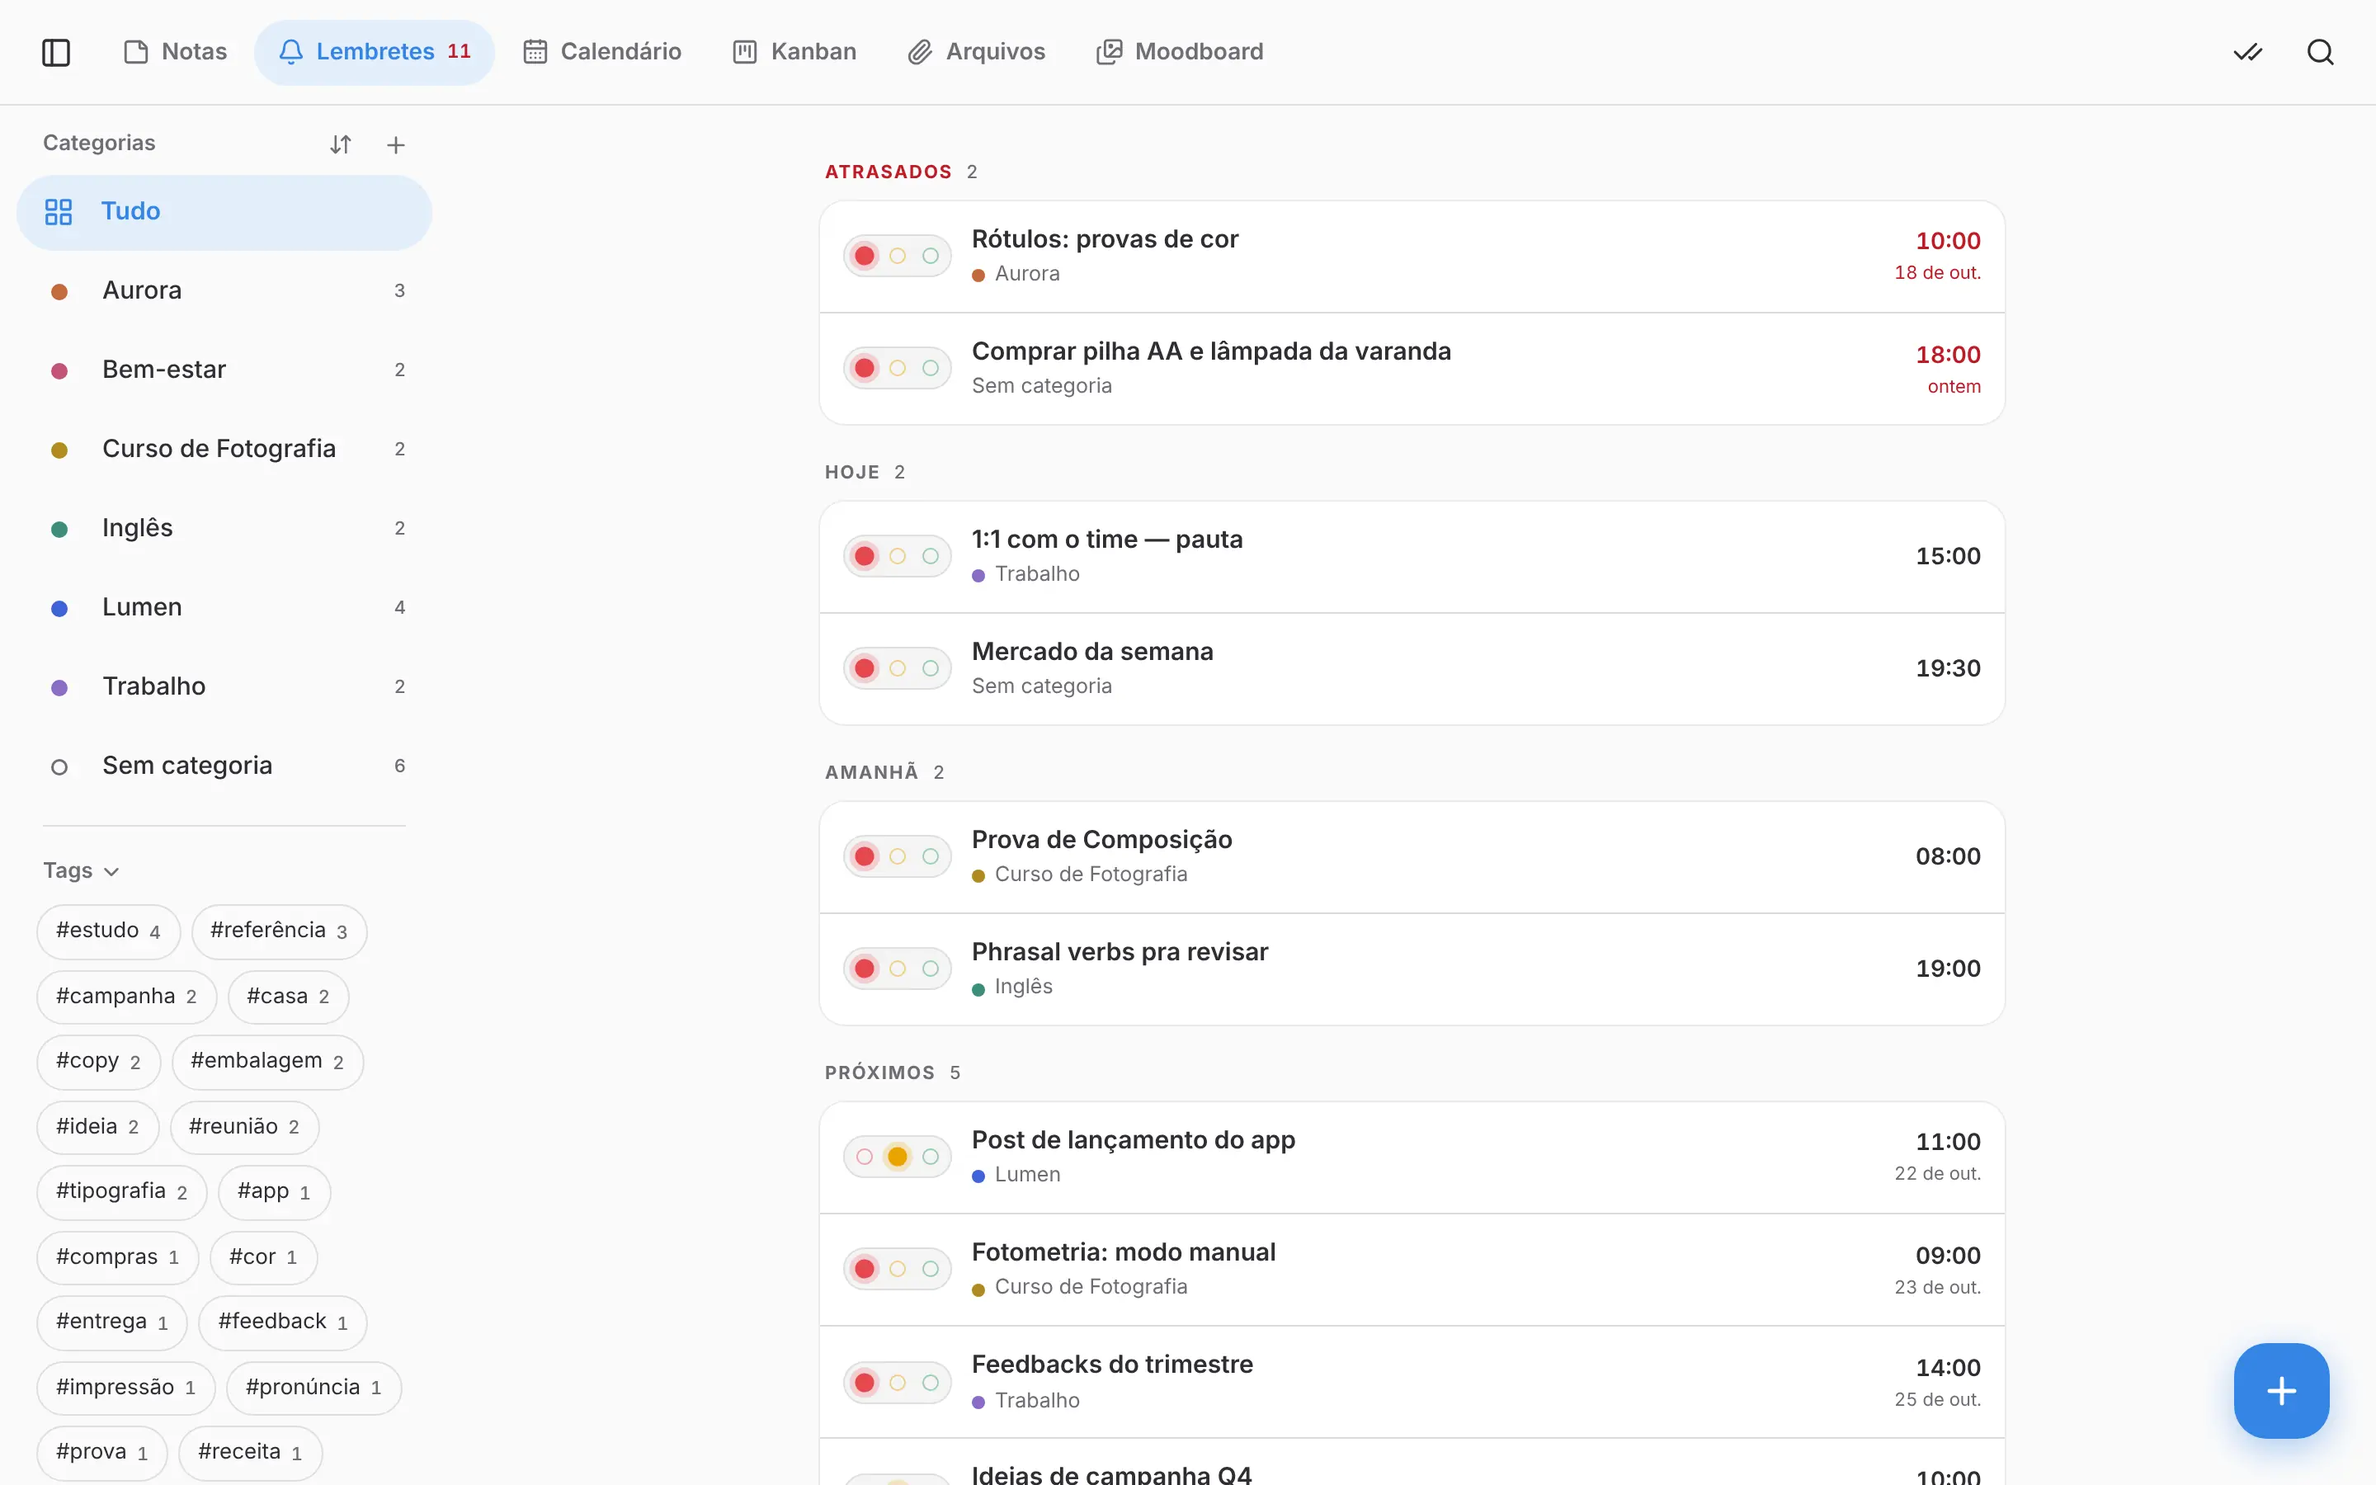
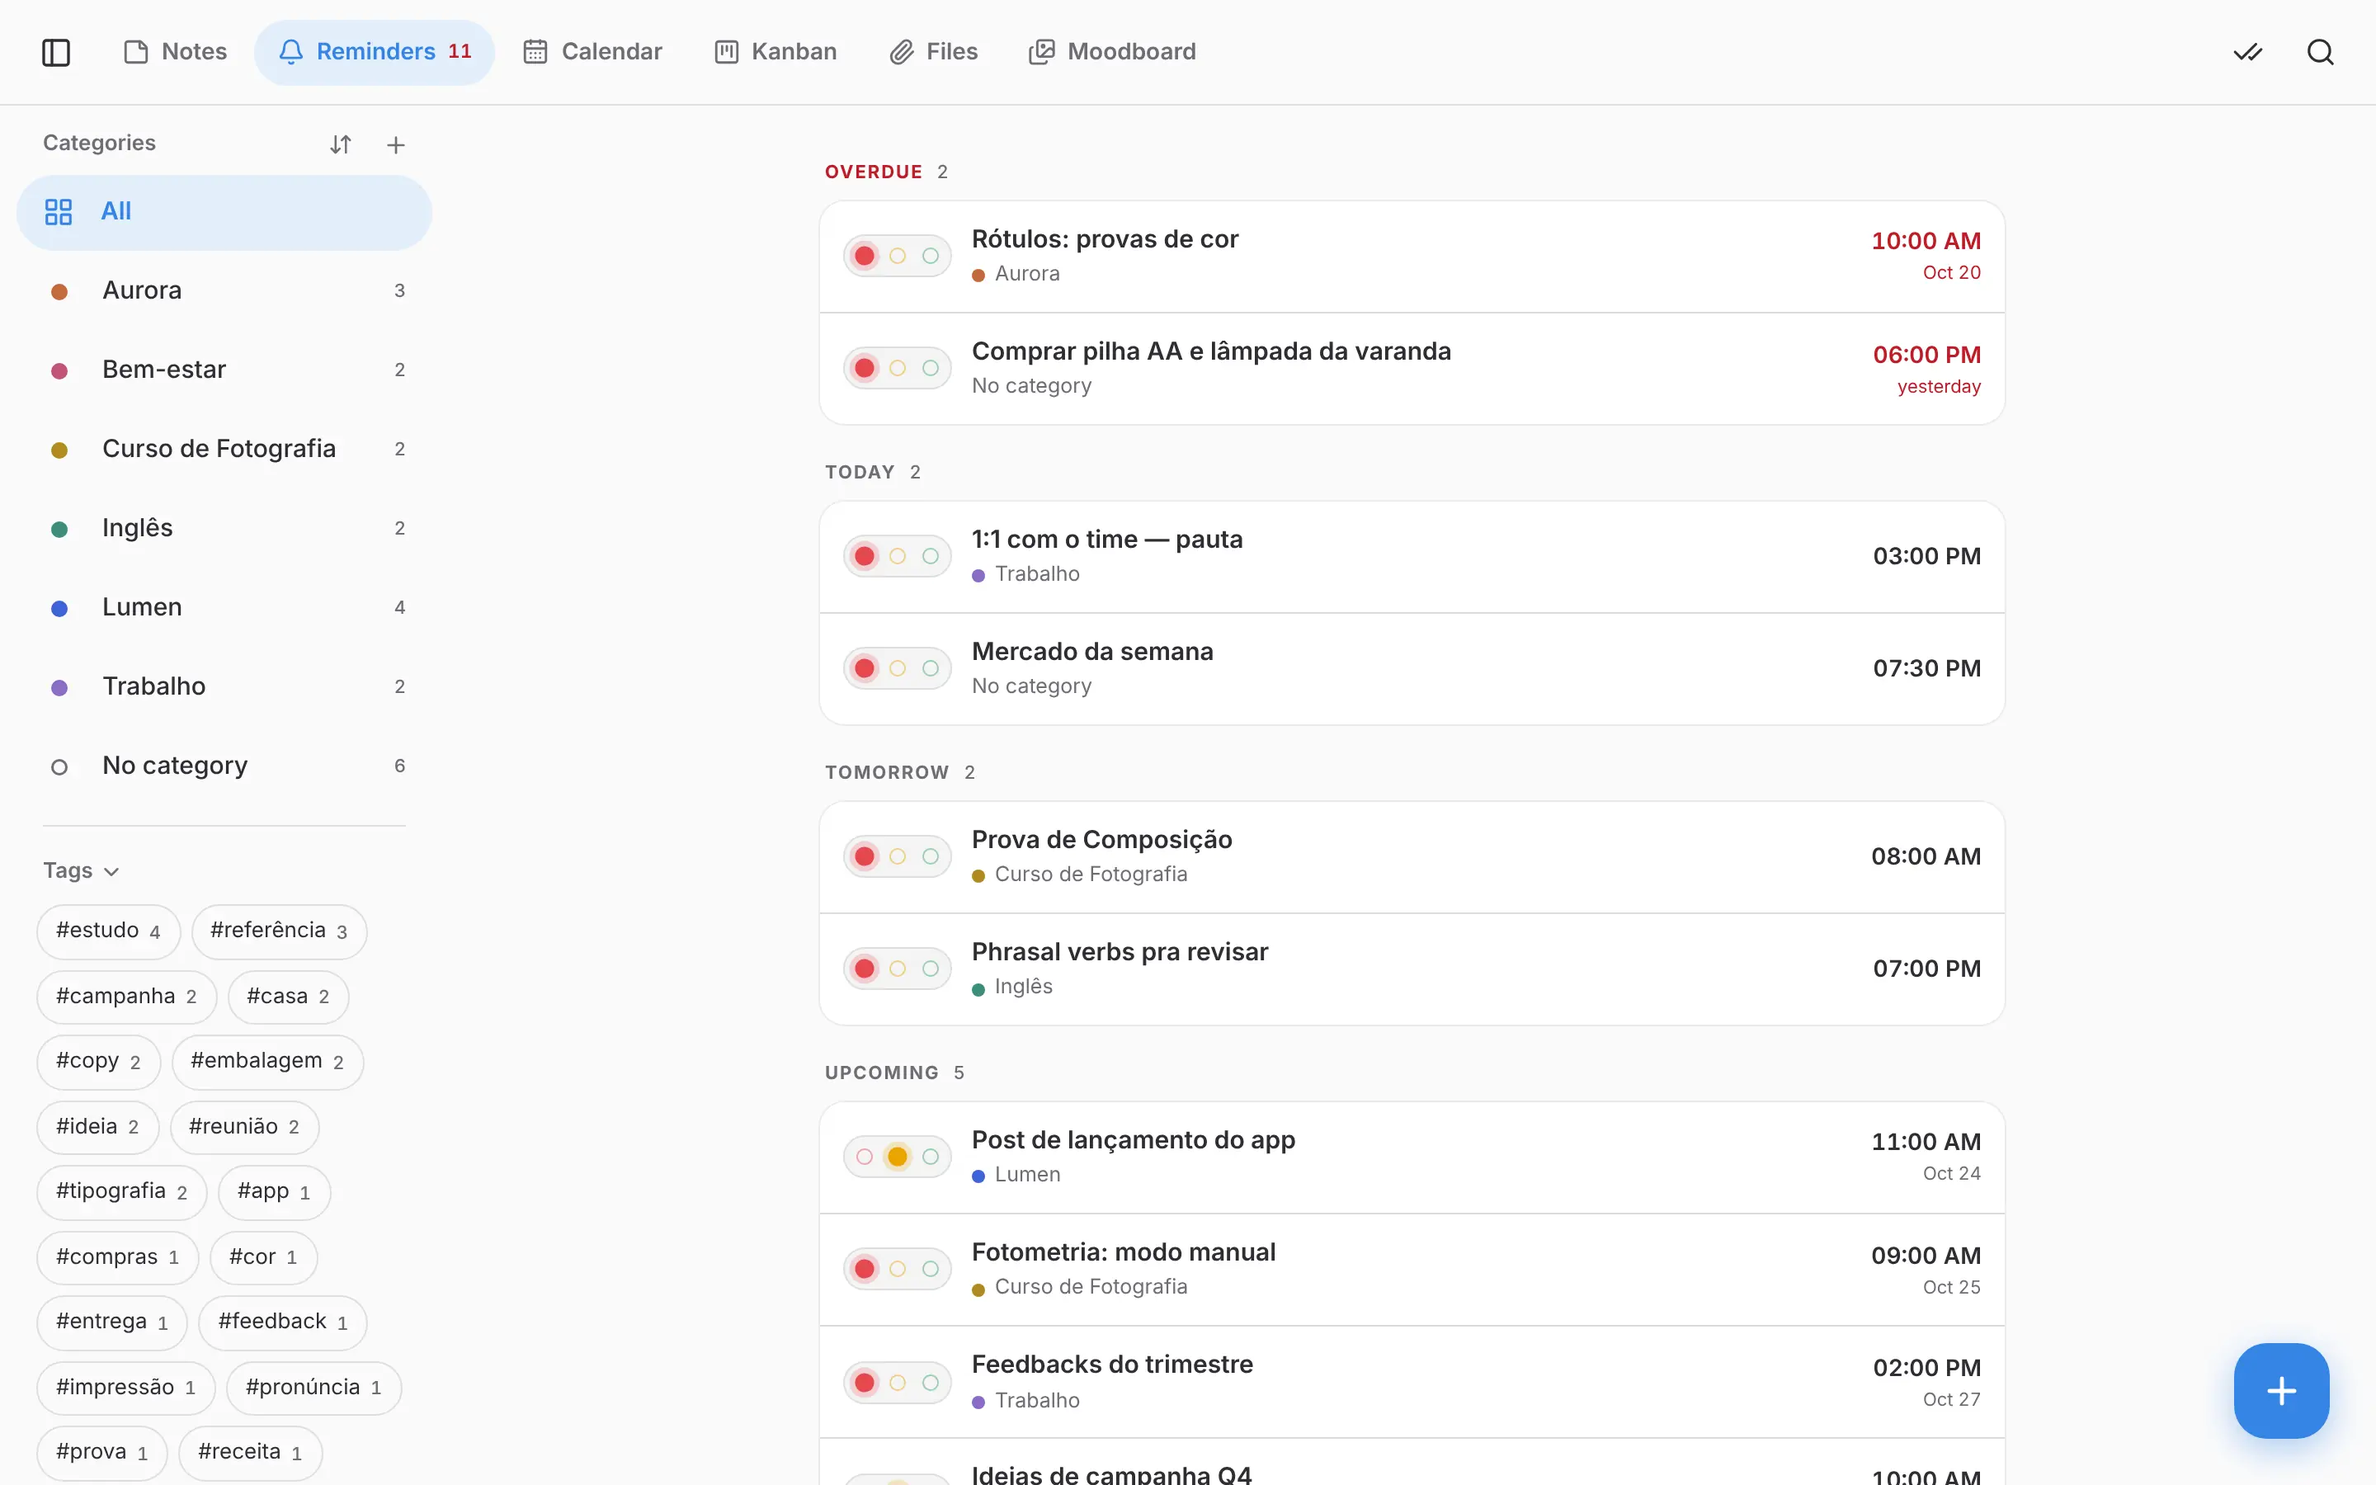
Prints do site em inglês e português
O scripts/site-shots.mjs tira cada print nas duas línguas (como no Nodo):
inglês em site/img e português em site/img/pt, com o idioma do app em
atrio.locale e os botões procurados pelo nome nas duas línguas. A página
em português e o README.pt-BR apontam para site/img/pt.

Claude-Session: https://claude.ai/code/session_01AzZnq8hfvPnh2DukMvcEkA

diff --git a/site/pt/index.html b/site/pt/index.html
@@ -35,7 +35,7 @@
 <meta property="og:url" content="https://ideario.pages.dev/pt/">
 <meta property="og:title" content="Ideario — app de notas local-first e alternativa ao Google Keep">
 <meta property="og:description" content="App de notas grátis e privado para Windows, macOS, Linux e Android: notas em Markdown, lembretes, calendário e kanban sem internet, com sync opcional pelo Google Drive e MCP para o Claude.">
-<meta property="og:image" content="https://ideario.pages.dev/img/notas.webp">
+<meta property="og:image" content="https://ideario.pages.dev/img/pt/notas.webp">
 <meta property="og:image:type" content="image/webp">
 <meta property="og:image:width" content="2880">
 <meta property="og:image:height" content="1800">
@@ -43,7 +43,7 @@
 <meta name="twitter:card" content="summary_large_image">
 <meta name="twitter:title" content="Ideario — app de notas local-first e alternativa ao Google Keep">
 <meta name="twitter:description" content="App de notas grátis e privado para Windows, macOS, Linux e Android: notas em Markdown, lembretes, calendário e kanban sem internet, com sync opcional pelo Google Drive e MCP para o Claude.">
-<meta name="twitter:image" content="https://ideario.pages.dev/img/notas.webp">
+<meta name="twitter:image" content="https://ideario.pages.dev/img/pt/notas.webp">
 <meta name="twitter:image:alt" content="Ideario, app de notas local-first: cards coloridos com checklists, fotos e lembretes">
 <link rel="icon" href="/favicon.svg" type="image/svg+xml">
 <link rel="stylesheet" href="/style.css">
@@ -65,12 +65,12 @@
   },
   "isAccessibleForFree": true,
   "downloadUrl": "https://github.com/wylho/ideario/releases/latest",
-  "image": "https://ideario.pages.dev/img/notas.webp",
+  "image": "https://ideario.pages.dev/img/pt/notas.webp",
   "screenshot": [
-    "https://ideario.pages.dev/img/notas.webp",
-    "https://ideario.pages.dev/img/nota.webp",
-    "https://ideario.pages.dev/img/calendario.webp",
-    "https://ideario.pages.dev/img/kanban.webp"
+    "https://ideario.pages.dev/img/pt/notas.webp",
+    "https://ideario.pages.dev/img/pt/nota.webp",
+    "https://ideario.pages.dev/img/pt/calendario.webp",
+    "https://ideario.pages.dev/img/pt/kanban.webp"
   ],
   "featureList": [
     "Notas em Markdown com checklists, fotos, PDFs, áudio e vídeo",
@@ -130,8 +130,8 @@
 
 <div class="showcase">
   <picture>
-    <source srcset="/img/notas-escuro.webp" media="(prefers-color-scheme: dark)">
-    <img src="/img/notas.webp" width="2880" height="1800" alt="Tela principal do Ideario: notas coloridas em cards, com checklists, fotos, lembretes e categorias na lateral">
+    <source srcset="/img/pt/notas-escuro.webp" media="(prefers-color-scheme: dark)">
+    <img src="/img/pt/notas.webp" width="2880" height="1800" alt="Tela principal do Ideario: notas coloridas em cards, com checklists, fotos, lembretes e categorias na lateral">
   </picture>
 </div>
 
@@ -206,32 +206,32 @@
       <li>Um emoji grande de capa para achar a nota de longe</li>
     </ul>
         </div>
-        <div class="media"><img src="/img/nota.webp" width="2880" height="1800" loading="lazy" alt="Nota aberta com três fotos lado a lado, um checklist e um PDF anexado"></div>
+        <div class="media"><img src="/img/pt/nota.webp" width="2880" height="1800" loading="lazy" alt="Nota aberta com três fotos lado a lado, um checklist e um PDF anexado"></div>
       </div>
       <div class="card">
         <h3>Lembretes que avisam de verdade</h3>
         <p>Notificação do sistema na hora certa, com Adiar e Concluir. Lembretes que se repetem todo dia, semana, mês ou
     ano. Se o computador estava desligado, o Ideario avisa o que passou assim que abrir. Cada lembrete tem um status
     em três cores: vermelho (a fazer), amarelo (em andamento) e verde (concluído).</p>
-        <div class="media"><img src="/img/lembretes.webp" width="2880" height="1800" loading="lazy" alt="Lista de lembretes agrupada em atrasados, hoje, amanhã e próximos"></div>
+        <div class="media"><img src="/img/pt/lembretes.webp" width="2880" height="1800" loading="lazy" alt="Lista de lembretes agrupada em atrasados, hoje, amanhã e próximos"></div>
       </div>
       <div class="card">
         <h3>Calendário</h3>
         <p>Os mesmos lembretes, no dia de cada um, por mês ou por semana. Arraste para outro dia e a data muda (a hora
     fica); toque no + de um dia para criar um lembrete nele. Os que se repetem já mostram as próximas vezes.</p>
-        <div class="media"><img src="/img/calendario.webp" width="2880" height="1800" loading="lazy" alt="Calendário do mês com os lembretes em cada dia, coloridos pelo status"></div>
+        <div class="media"><img src="/img/pt/calendario.webp" width="2880" height="1800" loading="lazy" alt="Calendário do mês com os lembretes em cada dia, coloridos pelo status"></div>
       </div>
       <div class="card">
         <h3>Kanban</h3>
         <p>A fazer, em andamento e concluído, em três colunas. Arraste o card de uma coluna para outra ou toque no
     seletor de cores dele. Tudo isso também pelo Claude.</p>
-        <div class="media"><img src="/img/kanban.webp" width="2880" height="1800" loading="lazy" alt="Kanban com os lembretes em três colunas: a fazer, em andamento e concluído"></div>
+        <div class="media"><img src="/img/pt/kanban.webp" width="2880" height="1800" loading="lazy" alt="Kanban com os lembretes em três colunas: a fazer, em andamento e concluído"></div>
       </div>
       <div class="card">
         <h3>Moodboard das suas fotos</h3>
         <p>Todas as imagens de todas as notas num mural só, com a paleta de cores de cada uma. Filtre por tom e encontre
     aquela referência sem lembrar em que nota ela estava.</p>
-        <div class="media"><img src="/img/moodboard.webp" width="2880" height="1800" loading="lazy" alt="Moodboard com as imagens das notas em mosaico e a paleta de cores de cada uma"></div>
+        <div class="media"><img src="/img/pt/moodboard.webp" width="2880" height="1800" loading="lazy" alt="Moodboard com as imagens das notas em mosaico e a paleta de cores de cada uma"></div>
       </div>
       <div class="card wide">
         <div>
@@ -239,7 +239,7 @@
           <p>Um clique e a nota abre em página inteira, com coluna de leitura. Exporte em Markdown, HTML ou PDF, com as
     fotos e anexos juntos.</p>
         </div>
-        <div class="media"><img src="/img/documento.webp" width="2880" height="1800" loading="lazy" alt="Nota aberta no modo documento, em página inteira"></div>
+        <div class="media"><img src="/img/pt/documento.webp" width="2880" height="1800" loading="lazy" alt="Nota aberta no modo documento, em página inteira"></div>
       </div>
     </div>
   </div>
@@ -261,7 +261,7 @@
     computador, sem servidor nosso no meio, e as categorias protegidas por PIN ficam de fora. Cada nota tem um ID
     curto (#a1b2c3d4): copie e diga “na nota #a1b2c3d4, monta uma tabela com os gastos”.</p>
         </div>
-        <div class="media"><img src="/img/claude.webp" width="2880" height="1800" loading="lazy" alt="Configurações do Ideario com a sincronização do Google Drive e o botão para ligar no Claude Desktop"></div>
+        <div class="media"><img src="/img/pt/claude.webp" width="2880" height="1800" loading="lazy" alt="Configurações do Ideario com a sincronização do Google Drive e o botão para ligar no Claude Desktop"></div>
       </div>
     </div>
   </div>
@@ -278,7 +278,7 @@
     Janela estreita, o layout se ajusta, com as visões numa barra embaixo. Tema claro, escuro ou o do sistema, com as
     cores de destaque do seu Windows, macOS ou Linux.</p>
         </div>
-        <div class="media phone"><img src="/img/janela-estreita.webp" width="1170" height="2532" loading="lazy" alt="O Ideario numa janela estreita, com as notas em duas colunas e a barra de visões embaixo"></div>
+        <div class="media phone"><img src="/img/pt/janela-estreita.webp" width="1170" height="2532" loading="lazy" alt="O Ideario numa janela estreita, com as notas em duas colunas e a barra de visões embaixo"></div>
       </div>
     </div>
     <div class="section-head" style="margin-top: 120px">

diff --git a/README.pt-BR.md b/README.pt-BR.md
@@ -25,8 +25,8 @@ pelo seu próprio Google Drive.</p>
 </p>
 
 <picture>
-  <source srcset="site/img/notas-escuro.webp" media="(prefers-color-scheme: dark)">
-  <img src="site/img/notas.webp" alt="Tela principal do Ideario: notas coloridas em cards, com checklists, fotos, lembretes e categorias na lateral">
+  <source srcset="site/img/pt/notas-escuro.webp" media="(prefers-color-scheme: dark)">
+  <img src="site/img/pt/notas.webp" alt="Tela principal do Ideario: notas coloridas em cards, com checklists, fotos, lembretes e categorias na lateral">
 </picture>
 
 ## Uma nota, seis jeitos de ver
@@ -79,7 +79,7 @@ arrasta para onde quiser.
 - Cole um link e ele vira um cartão com título e imagem
 - Um emoji grande de capa para achar a nota de longe
 
-<img src="site/img/nota.webp" alt="Nota aberta com três fotos lado a lado, um checklist e um PDF anexado">
+<img src="site/img/pt/nota.webp" alt="Nota aberta com três fotos lado a lado, um checklist e um PDF anexado">
 
 ## Lembretes que avisam de verdade
 
@@ -87,35 +87,35 @@ Notificação do sistema na hora certa, com Adiar e Concluir. Lembretes que se r
 Se o computador estava desligado, o Ideario avisa o que passou assim que abrir. Cada lembrete tem um status em três
 cores: vermelho (a fazer), amarelo (em andamento) e verde (concluído).
 
-<img src="site/img/lembretes.webp" alt="Lista de lembretes agrupada em atrasados, hoje, amanhã e próximos">
+<img src="site/img/pt/lembretes.webp" alt="Lista de lembretes agrupada em atrasados, hoje, amanhã e próximos">
 
 ## Calendário
 
 Os mesmos lembretes, no dia de cada um, por mês ou por semana. Arraste para outro dia e a data muda (a hora fica);
 toque no + de um dia para criar um lembrete nele. Os que se repetem já mostram as próximas vezes.
 
-<img src="site/img/calendario.webp" alt="Calendário do mês com os lembretes em cada dia, coloridos pelo status">
+<img src="site/img/pt/calendario.webp" alt="Calendário do mês com os lembretes em cada dia, coloridos pelo status">
 
 ## Kanban
 
 A fazer, em andamento e concluído, em três colunas. Arraste o card de uma coluna para outra ou toque no seletor de
 cores dele. Tudo isso também pelo Claude.
 
-<img src="site/img/kanban.webp" alt="Kanban com os lembretes em três colunas: a fazer, em andamento e concluído">
+<img src="site/img/pt/kanban.webp" alt="Kanban com os lembretes em três colunas: a fazer, em andamento e concluído">
 
 ## Moodboard das suas fotos
 
 Todas as imagens de todas as notas num mural só, com a paleta de cores de cada uma. Filtre por tom e encontre aquela
 referência sem lembrar em que nota ela estava.
 
-<img src="site/img/moodboard.webp" alt="Moodboard com as imagens das notas em mosaico e a paleta de cores de cada uma">
+<img src="site/img/pt/moodboard.webp" alt="Moodboard com as imagens das notas em mosaico e a paleta de cores de cada uma">
 
 ## Quando a nota cresce, vira documento
 
 Um clique e a nota abre em página inteira, com coluna de leitura. Exporte em Markdown, HTML ou PDF, com as fotos e
 anexos juntos.
 
-<img src="site/img/documento.webp" alt="Nota aberta no modo documento, em página inteira">
+<img src="site/img/pt/documento.webp" alt="Nota aberta no modo documento, em página inteira">
 
 ## Funciona com o Claude
 
@@ -124,7 +124,7 @@ como comprado”, “o que eu anotei sobre a viagem?”. O Claude fala com o Ide
 nosso no meio, e as categorias protegidas por PIN ficam de fora. Cada nota tem um ID curto (#a1b2c3d4): copie e diga
 “na nota #a1b2c3d4, monta uma tabela com os gastos”. Guia: [`docs/MCP.md`](docs/MCP.md).
 
-<img src="site/img/claude.webp" alt="Configurações do Ideario com a sincronização do Google Drive e o botão para ligar no Claude Desktop">
+<img src="site/img/pt/claude.webp" alt="Configurações do Ideario com a sincronização do Google Drive e o botão para ligar no Claude Desktop">
 
 ## Do tamanho que a janela estiver
 
@@ -132,7 +132,7 @@ Janela grande, lateral com categorias e tags; feche a lateral e as categorias vi
 Janela estreita, o layout se ajusta, com as visões numa barra embaixo. Tema claro, escuro ou o do sistema, com as
 cores de destaque do seu Windows, macOS ou Linux.
 
-<p align="center"><img src="site/img/janela-estreita.webp" width="300" alt="O Ideario numa janela estreita, com as notas em duas colunas e a barra de visões embaixo"></p>
+<p align="center"><img src="site/img/pt/janela-estreita.webp" width="300" alt="O Ideario numa janela estreita, com as notas em duas colunas e a barra de visões embaixo"></p>
 
 ## E mais
 
